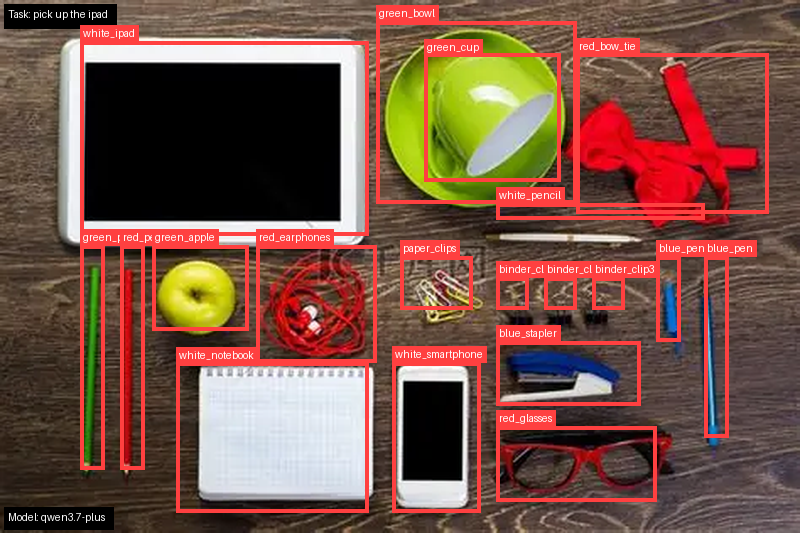
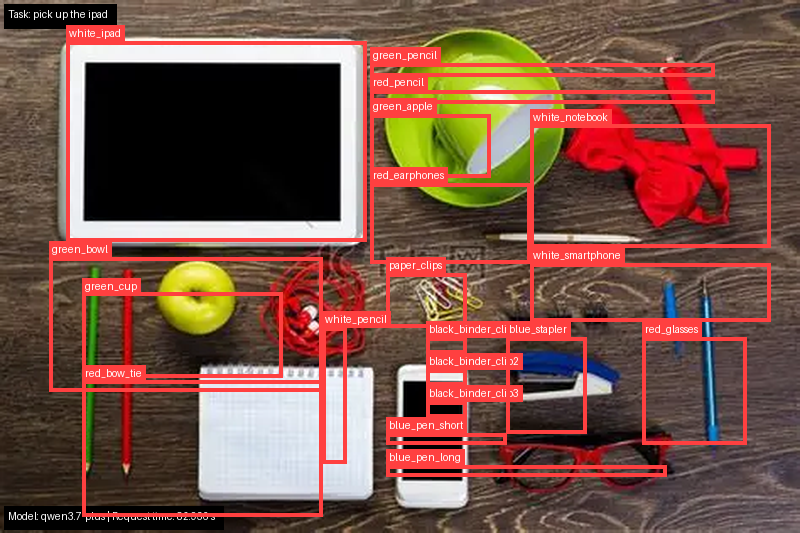
fix：给测试加一个响应时间

Changed region(s): [[0.0, 0.0, 0.9688, 1.0]]

diff --git a/tests/test_ground.py b/tests/test_ground.py
@@ -1,6 +1,7 @@
 """TiPToP-faithful grounding demo used by ``pixi run demo``.
 
 Pipeline:
+
 task_instruction -> detect_and_translate template -> complete prompt ->
 RGB/PIL image resized to 800 px wide -> PNG multipart POST -> GroundingResult.
 """
@@ -20,6 +21,7 @@ from PIL import Image, ImageDraw, ImageFont
 from omniground.config import PROJECT_ROOT
 from omniground.schemas import GroundingResult
 
+
 EXAMPLES_DIR = PROJECT_ROOT / "examples"
 DEFAULT_IMAGE_PATH = EXAMPLES_DIR / "demo.png"
 DEFAULT_RESULT_IMAGE_PATH = EXAMPLES_DIR / "result.png"
@@ -31,14 +33,24 @@ PROMPT_TEMPLATE_URL = (
 
 
 def parse_args() -> argparse.Namespace:
-    parser = argparse.ArgumentParser(description="Run one TiPToP-compatible OmniGround grounding request.")
-    parser.add_argument("--task-instruction", default=None, help="Natural-language task instruction supplied by the user")
+    parser = argparse.ArgumentParser(
+        description="Run one TiPToP-compatible OmniGround grounding request."
+    )
+    parser.add_argument(
+        "--task-instruction",
+        default=None,
+        help="Natural-language task instruction supplied by the user",
+    )
     parser.add_argument("--model-id", default="qwen3.7-plus")
     parser.add_argument("--host", default="127.0.0.1")
     parser.add_argument("--port", type=int, default=8011)
     parser.add_argument("--config", default=None)
     parser.add_argument("--image", type=Path, default=DEFAULT_IMAGE_PATH)
-    parser.add_argument("--result-image", type=Path, default=DEFAULT_RESULT_IMAGE_PATH)
+    parser.add_argument(
+        "--result-image",
+        type=Path,
+        default=DEFAULT_RESULT_IMAGE_PATH,
+    )
     parser.add_argument("--temperature", type=float, default=0.0)
     parser.add_argument("--timeout-seconds", type=float, default=120.0)
     return parser.parse_args()
@@ -46,7 +58,6 @@ def parse_args() -> argparse.Namespace:
 
 def load_prompt_template() -> str:
     """Load a cached TiPToP template, or download it once when absent."""
-
     if PROMPT_TEMPLATE_PATH.is_file():
         print(
             f"检测到已有 prompt 模板：{PROMPT_TEMPLATE_PATH}。将使用旧模板；"
@@ -63,7 +74,10 @@ def load_prompt_template() -> str:
 
     template = response.text
     if "{task_instruction}" not in template:
-        raise SystemExit("下载的 prompt 模板缺少 {task_instruction} 占位符，已拒绝写入本地文件。")
+        raise SystemExit(
+            "下载的 prompt 模板缺少 {task_instruction} 占位符，已拒绝写入本地文件。"
+        )
+
     PROMPT_TEMPLATE_PATH.write_text(template, encoding="utf-8")
     print(f"已下载并保存 prompt 模板：{PROMPT_TEMPLATE_PATH}")
     return template
@@ -72,6 +86,7 @@ def load_prompt_template() -> str:
 def render_prompt(template: str, task_instruction: str) -> str:
     if not task_instruction.strip():
         raise ValueError("task_instruction 不能为空")
+
     try:
         return template.format(task_instruction=task_instruction.strip())
     except (KeyError, ValueError) as exc:
@@ -80,19 +95,26 @@ def render_prompt(template: str, task_instruction: str) -> str:
 
 def prepare_tiptop_image(image_path: Path) -> tuple[Image.Image, bytes]:
     """Mirror TiPToP preprocessing: PIL RGB, resize to 800-wide, PNG encode."""
-
     if not image_path.is_file():
         raise FileNotFoundError(f"找不到测试图片：{image_path}")
+
     with Image.open(image_path) as source:
         image = source.convert("RGB")
+
     try:
         target_width = 800
         if image.width != target_width:
             target_height = round(image.height * target_width / image.width)
-            image = image.resize((target_width, target_height), Image.Resampling.LANCZOS)
+            image = image.resize(
+                (target_width, target_height),
+                Image.Resampling.LANCZOS,
+            )
+
         encoded = io.BytesIO()
         image.save(encoded, format="PNG")
-        print(f"图像预处理完成：PIL RGB，{image.width}x{image.height}，PNG 编码。")
+        print(
+            f"图像预处理完成：PIL RGB，{image.width}x{image.height}，PNG 编码。"
+        )
         return image, encoded.getvalue()
     except Exception:
         image.close()
@@ -104,10 +126,10 @@ def draw_grounding_result(
     result: GroundingResult,
     task_instruction: str,
     model_id: str,
+    request_elapsed_seconds: float,
     output_path: Path,
 ) -> None:
-    """Draw normalized OmniGround boxes directly on the TiPToP-preprocessed image."""
-
+    """Draw normalized boxes and request timing on the preprocessed image."""
     canvas = image.copy()
     draw = ImageDraw.Draw(canvas)
     font = ImageFont.load_default()
@@ -115,54 +137,109 @@ def draw_grounding_result(
 
     title = f"Task: {task_instruction}"
     title_box = draw.textbbox((8, 8), title, font=font)
-    draw.rectangle((4, 4, title_box[2] + 8, title_box[3] + 8), fill=(0, 0, 0))
+    draw.rectangle(
+        (4, 4, title_box[2] + 8, title_box[3] + 8),
+        fill=(0, 0, 0),
+    )
     draw.text((8, 8), title, fill=(255, 255, 255), font=font)
 
-    model_text = f"Model: {model_id}"
-    model_box = draw.textbbox((8, 0), model_text, font=font)
-    model_height = model_box[3] - model_box[1]
-    model_top = height - model_height - 12
-    draw.rectangle((4, model_top - 4, model_box[2] + 8, height - 4), fill=(0, 0, 0))
-    draw.text((8, model_top), model_text, fill=(255, 255, 255), font=font)
+    info_text = (
+        f"Model: {model_id} | Request time: {request_elapsed_seconds:.3f} s"
+    )
+    info_box = draw.textbbox((8, 0), info_text, font=font)
+    info_height = info_box[3] - info_box[1]
+    info_top = height - info_height - 12
+
+    draw.rectangle(
+        (
+            4,
+            info_top - 4,
+            min(width - 4, info_box[2] + 8),
+            height - 4,
+        ),
+        fill=(0, 0, 0),
+    )
+    draw.text(
+        (8, info_top),
+        info_text,
+        fill=(255, 255, 255),
+        font=font,
+    )
 
     for bbox in result.bboxes:
         ymin, xmin, ymax, xmax = bbox.box_2d
+
         left = round(xmin * width / 1000)
         top = round(ymin * height / 1000)
         right = round(xmax * width / 1000)
         bottom = round(ymax * height / 1000)
-        draw.rectangle((left, top, right, bottom), outline=(255, 64, 64), width=4)
+
+        draw.rectangle(
+            (left, top, right, bottom),
+            outline=(255, 64, 64),
+            width=4,
+        )
+
         label_box = draw.textbbox((left, top), bbox.label, font=font)
-        label_top = max(0, top - (label_box[3] - label_box[1]) - 6)
-        draw.rectangle((left, label_top, label_box[2] + 6, top), fill=(255, 64, 64))
-        draw.text((left + 3, label_top + 2), bbox.label, fill=(255, 255, 255), font=font)
+        label_top = max(
+            0,
+            top - (label_box[3] - label_box[1]) - 6,
+        )
+
+        draw.rectangle(
+            (left, label_top, label_box[2] + 6, top),
+            fill=(255, 64, 64),
+        )
+        draw.text(
+            (left + 3, label_top + 2),
+            bbox.label,
+            fill=(255, 255, 255),
+            font=font,
+        )
 
     output_path.parent.mkdir(parents=True, exist_ok=True)
     canvas.save(output_path, format="PNG")
     canvas.close()
+
     print(f"检测框结果图已保存：{output_path}")
 
 
-def wait_until_ready(session: requests.Session, base_url: str, model_id: str, timeout_seconds: float) -> None:
+def wait_until_ready(
+    session: requests.Session,
+    base_url: str,
+    model_id: str,
+    timeout_seconds: float,
+) -> None:
     deadline = time.monotonic() + timeout_seconds
+
     while time.monotonic() < deadline:
         try:
-            response = session.get(base_url + "/ready", params={"model_id": model_id}, timeout=1)
+            response = session.get(
+                base_url + "/ready",
+                params={"model_id": model_id},
+                timeout=1,
+            )
             if response.status_code == 200:
                 return
         except requests.RequestException:
             pass
+
         time.sleep(0.2)
+
     raise RuntimeError("服务未能在超时时间内通过 /ready 检查")
 
 
-def run_grounding(args: argparse.Namespace, task_instruction: str) -> GroundingResult:
+def run_grounding(
+    args: argparse.Namespace,
+    task_instruction: str,
+) -> GroundingResult:
     template = load_prompt_template()
     prompt = render_prompt(template, task_instruction)
     image, image_bytes = prepare_tiptop_image(args.image)
 
     print("\n===== task_instruction =====")
     print(task_instruction)
+
     print("\n===== TiPToP 完整 prompt =====")
     print(prompt)
 
@@ -177,20 +254,43 @@ def run_grounding(args: argparse.Namespace, task_instruction: str) -> GroundingR
         "--model-id",
         args.model_id,
     ]
+
     if args.config:
         command.extend(["--config", args.config])
 
     process = subprocess.Popen(command, cwd=PROJECT_ROOT)
     base_url = f"http://{args.host}:{args.port}"
+
     session = requests.Session()
-    # The child server is always local; bypass workstation proxy settings.
+
+    # 子服务器位于本地，忽略系统代理配置。
     session.trust_env = False
+
     try:
-        wait_until_ready(session, base_url, args.model_id, args.timeout_seconds)
-        print("\n服务已就绪，按 TiPToP multipart/form-data 格式请求 /generate。")
+        wait_until_ready(
+            session,
+            base_url,
+            args.model_id,
+            args.timeout_seconds,
+        )
+
+        print(
+            "\n服务已就绪，"
+            "按 TiPToP multipart/form-data 格式请求 /generate。"
+        )
+
+        # 计时开始：只统计 /generate 请求及服务端处理耗时。
+        request_started_at = time.perf_counter()
+
         response = session.post(
             base_url + "/generate",
-            files={"image": ("image.png", image_bytes, "image/png")},
+            files={
+                "image": (
+                    "image.png",
+                    image_bytes,
+                    "image/png",
+                )
+            },
             data={
                 "prompt": prompt,
                 "model_id": args.model_id,
@@ -198,13 +298,37 @@ def run_grounding(args: argparse.Namespace, task_instruction: str) -> GroundingR
             },
             timeout=args.timeout_seconds,
         )
+
+        # session.post 返回时，响应体已经接收完成。
+        request_elapsed_seconds = (
+            time.perf_counter() - request_started_at
+        )
+
+        print(
+            "Grounding 请求耗时："
+            f"{request_elapsed_seconds:.3f} 秒"
+        )
+
         response.raise_for_status()
-        result = GroundingResult.model_validate(response.json())
-        draw_grounding_result(image, result, task_instruction, args.model_id, args.result_image)
+
+        result = GroundingResult.model_validate(
+            response.json()
+        )
+
+        draw_grounding_result(
+            image=image,
+            result=result,
+            task_instruction=task_instruction,
+            model_id=args.model_id,
+            request_elapsed_seconds=request_elapsed_seconds,
+            output_path=args.result_image,
+        )
+
         return result
     finally:
         image.close()
         session.close()
+
         process.terminate()
         try:
             process.wait(timeout=10)
@@ -214,24 +338,41 @@ def run_grounding(args: argparse.Namespace, task_instruction: str) -> GroundingR
 
 
 def test_render_prompt_inserts_task_instruction() -> None:
-    assert render_prompt('Task: "{task_instruction}". Return {{}}.', "pick up the ball") == (
-        'Task: "pick up the ball". Return {}.'
-    )
+    assert render_prompt(
+        'Task: "{task_instruction}". Return {{}}.',
+        "pick up the ball",
+    ) == 'Task: "pick up the ball". Return {}.'
 
 
 def main() -> None:
     args = parse_args()
     task_instruction = args.task_instruction
+
     if task_instruction is None:
         try:
-            task_instruction = input("请输入 task_instruction：").strip()
+            task_instruction = input(
+                "请输入 task_instruction："
+            ).strip()
         except EOFError as exc:
-            raise SystemExit("请通过 --task-instruction 提供任务指令。") from exc
+            raise SystemExit(
+                "请通过 --task-instruction 提供任务指令。"
+            ) from exc
 
     try:
-        result = run_grounding(args, task_instruction)
-    except (FileNotFoundError, RuntimeError, ValueError, requests.RequestException) as exc:
-        raise SystemExit(f"Grounding 测试失败：{exc}") from exc
+        result = run_grounding(
+            args,
+            task_instruction,
+        )
+    except (
+        FileNotFoundError,
+        RuntimeError,
+        ValueError,
+        requests.RequestException,
+    ) as exc:
+        raise SystemExit(
+            f"Grounding 测试失败：{exc}"
+        ) from exc
+
     print("\n===== OmniGround 返回结果 =====")
     print(result.model_dump_json(indent=2))
 
